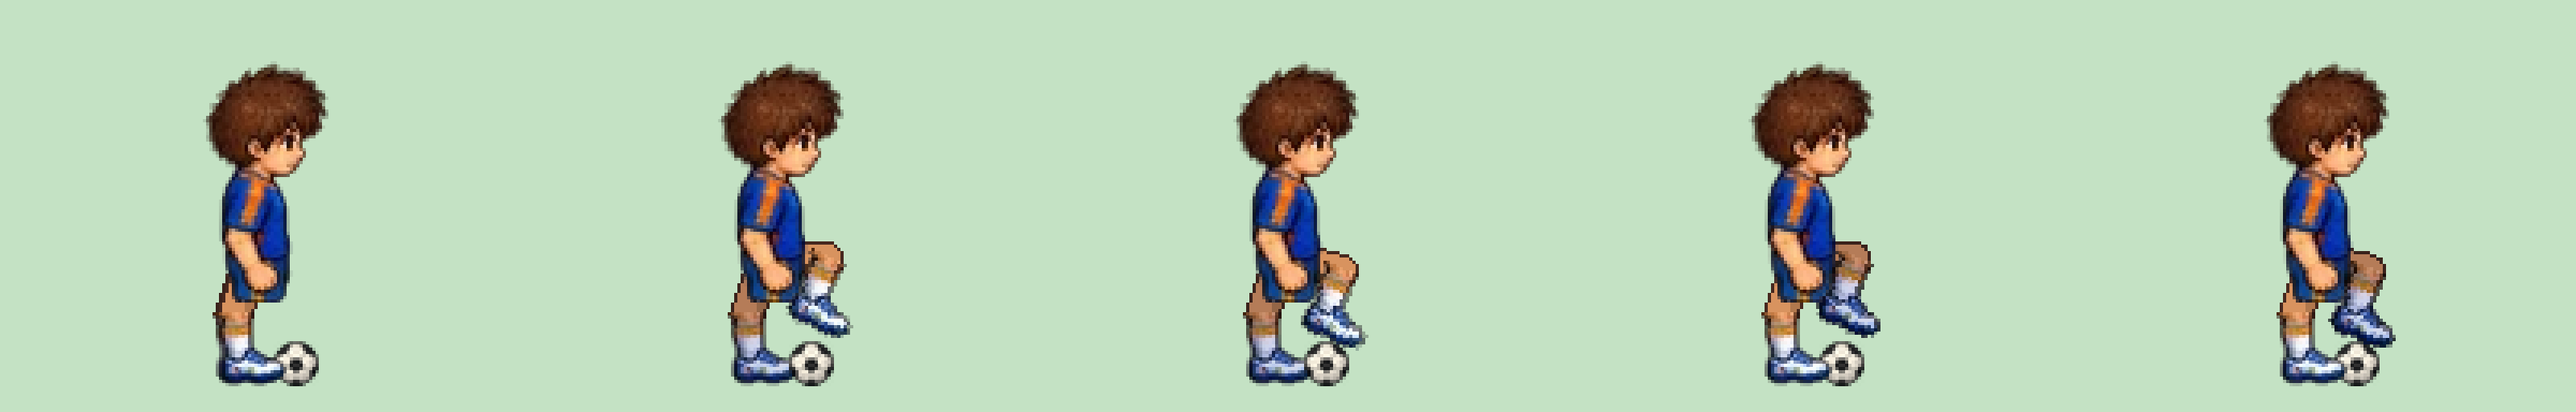
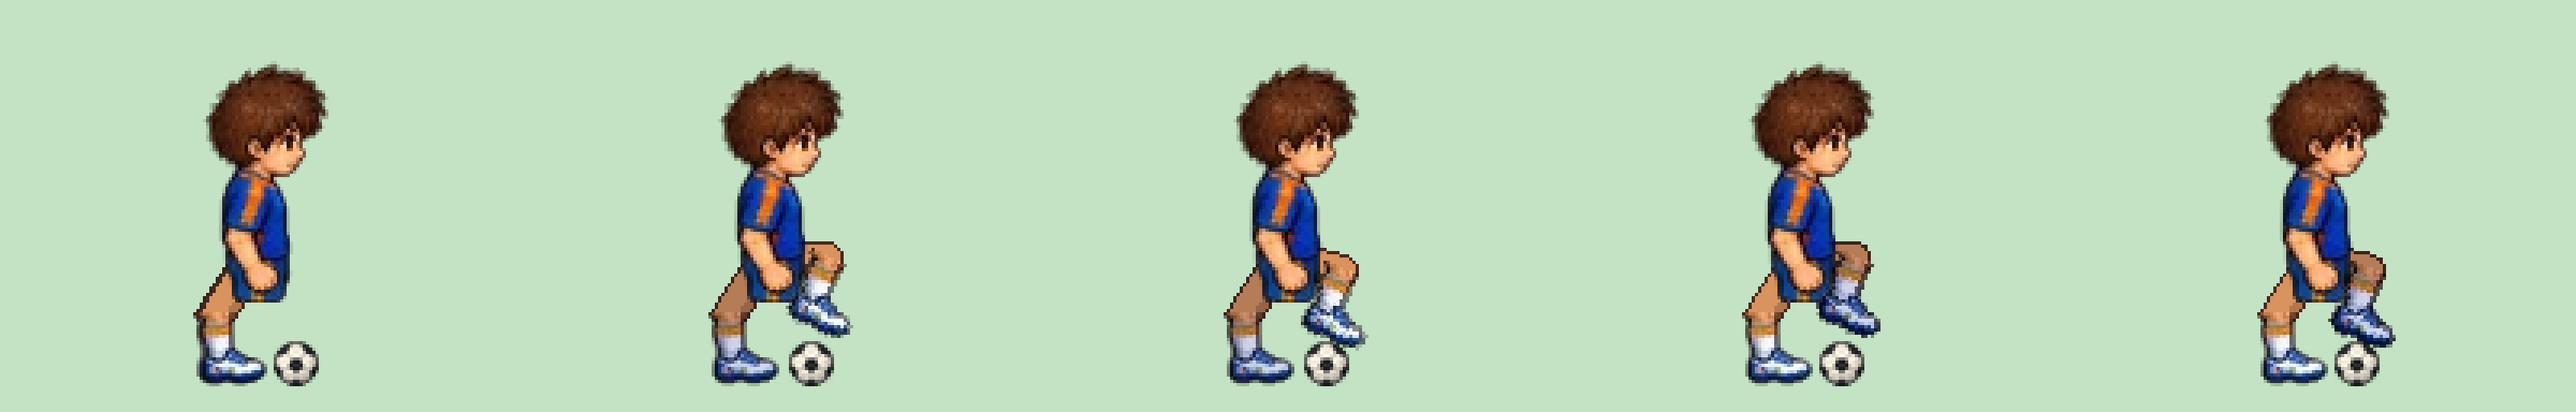
Sole taps side art: planted boots step back to clear the ball by 2 px; planted-boot pixel check in report and unit test

diff --git a/src/render/art/sideContactFrames.ts b/src/render/art/sideContactFrames.ts
@@ -1,19 +1,19 @@
 // Generated by scripts/art/build-side-contact.py. Do not edit by hand.
 /** Side-view contact poses: cell px, ground at anchor.y. Right = near leg (facing east), left = far leg; never mirrored. */
 export const SIDE_CONTACT = Object.freeze({
-  boy: { cell: { w: 160, h: 128 }, anchor: { x: 80, y: 120 }, bodyHeight: 100, visible: { x: 63, y: 19, w: 42, h: 101 }, ball: { x: 91.73, y: 113.00, r: 7.0 }, poses: {
-    'stand': {"working": null, "support": null, "surface": "none", "contact": null, "boots": {"right": {"heel": [68.0, 120.0], "toe": [89.0, 120.0], "bof": [81.02, 120.0]}, "left": {"heel": [67.0, 120.0], "toe": [88.0, 120.0], "bof": [80.02, 120.0]}}},
-    'right-lift': {"working": "right", "support": "left", "surface": "none", "contact": null, "boots": {"right": {"heel": [82.87, 98.36], "toe": [101.81, 107.44], "bof": [94.61, 103.99]}, "left": {"heel": [67.0, 120.0], "toe": [88.0, 120.0], "bof": [80.02, 120.0]}}},
-    'right-tap': {"working": "right", "support": "left", "surface": "sole", "contact": [95.24, 106.94], "boots": {"right": {"heel": [82.51, 101.96], "toe": [101.54, 110.84], "bof": [94.31, 107.47]}, "left": {"heel": [67.0, 120.0], "toe": [88.0, 120.0], "bof": [80.02, 120.0]}}},
-    'left-lift': {"working": "left", "support": "right", "surface": "none", "contact": null, "boots": {"right": {"heel": [68.0, 120.0], "toe": [89.0, 120.0], "bof": [81.02, 120.0]}, "left": {"heel": [82.48, 98.67], "toe": [101.71, 107.1], "bof": [94.4, 103.89]}}},
-    'left-tap': {"working": "left", "support": "right", "surface": "sole", "contact": [94.47, 106.56], "boots": {"right": {"heel": [68.0, 120.0], "toe": [89.0, 120.0], "bof": [81.02, 120.0]}, "left": {"heel": [82.14, 102.32], "toe": [101.44, 110.58], "bof": [94.11, 107.44]}}},
+  boy: { cell: { w: 160, h: 128 }, anchor: { x: 80, y: 120 }, bodyHeight: 100, visible: { x: 60, y: 19, w: 45, h: 101 }, ball: { x: 91.73, y: 113.00, r: 7.0 }, poses: {
+    'stand': {"working": null, "support": null, "surface": "none", "contact": null, "boots": {"right": {"heel": [62.5, 120.0], "toe": [83.5, 120.0], "bof": [75.52, 120.0]}, "left": {"heel": [61.5, 120.0], "toe": [82.5, 120.0], "bof": [74.52, 120.0]}}},
+    'right-lift': {"working": "right", "support": "left", "surface": "none", "contact": null, "boots": {"right": {"heel": [82.87, 98.36], "toe": [101.81, 107.44], "bof": [94.61, 103.99]}, "left": {"heel": [61.5, 120.0], "toe": [82.5, 120.0], "bof": [74.52, 120.0]}}},
+    'right-tap': {"working": "right", "support": "left", "surface": "sole", "contact": [95.24, 106.94], "boots": {"right": {"heel": [82.51, 101.96], "toe": [101.54, 110.84], "bof": [94.31, 107.47]}, "left": {"heel": [61.5, 120.0], "toe": [82.5, 120.0], "bof": [74.52, 120.0]}}},
+    'left-lift': {"working": "left", "support": "right", "surface": "none", "contact": null, "boots": {"right": {"heel": [62.5, 120.0], "toe": [83.5, 120.0], "bof": [75.52, 120.0]}, "left": {"heel": [82.48, 98.67], "toe": [101.71, 107.1], "bof": [94.4, 103.89]}}},
+    'left-tap': {"working": "left", "support": "right", "surface": "sole", "contact": [94.47, 106.56], "boots": {"right": {"heel": [62.5, 120.0], "toe": [83.5, 120.0], "bof": [75.52, 120.0]}, "left": {"heel": [82.14, 102.32], "toe": [101.44, 110.58], "bof": [94.11, 107.44]}}},
   } },
   girl: { cell: { w: 160, h: 128 }, anchor: { x: 80, y: 120 }, bodyHeight: 100, visible: { x: 53, y: 22, w: 49, h: 98 }, ball: { x: 89.39, y: 113.00, r: 7.0 }, poses: {
-    'stand': {"working": null, "support": null, "surface": "none", "contact": null, "boots": {"right": {"heel": [70.76, 120.0], "toe": [89.76, 120.0], "bof": [82.54, 120.0]}, "left": {"heel": [69.76, 120.0], "toe": [88.76, 120.0], "bof": [81.54, 120.0]}}},
-    'right-lift': {"working": "right", "support": "left", "surface": "none", "contact": null, "boots": {"right": {"heel": [81.65, 98.69], "toe": [98.88, 106.69], "bof": [92.33, 103.65]}, "left": {"heel": [69.76, 120.0], "toe": [88.76, 120.0], "bof": [81.54, 120.0]}}},
-    'right-tap': {"working": "right", "support": "left", "surface": "sole", "contact": [93.13, 107.08], "boots": {"right": {"heel": [81.67, 101.68], "toe": [98.89, 109.71], "bof": [92.35, 106.66]}, "left": {"heel": [69.76, 120.0], "toe": [88.76, 120.0], "bof": [81.54, 120.0]}}},
-    'left-lift': {"working": "left", "support": "right", "surface": "none", "contact": null, "boots": {"right": {"heel": [70.76, 120.0], "toe": [89.76, 120.0], "bof": [82.54, 120.0]}, "left": {"heel": [81.38, 98.74], "toe": [98.86, 106.18], "bof": [92.22, 103.35]}}},
-    'left-tap': {"working": "left", "support": "right", "surface": "sole", "contact": [93.13, 107.08], "boots": {"right": {"heel": [70.76, 120.0], "toe": [89.76, 120.0], "bof": [82.54, 120.0]}, "left": {"heel": [81.49, 101.53], "toe": [98.95, 109.03], "bof": [92.32, 106.18]}}},
+    'stand': {"working": null, "support": null, "surface": "none", "contact": null, "boots": {"right": {"heel": [63.26, 120.0], "toe": [82.26, 120.0], "bof": [75.04, 120.0]}, "left": {"heel": [62.26, 120.0], "toe": [81.26, 120.0], "bof": [74.04, 120.0]}}},
+    'right-lift': {"working": "right", "support": "left", "surface": "none", "contact": null, "boots": {"right": {"heel": [81.65, 98.69], "toe": [98.88, 106.69], "bof": [92.33, 103.65]}, "left": {"heel": [62.26, 120.0], "toe": [81.26, 120.0], "bof": [74.04, 120.0]}}},
+    'right-tap': {"working": "right", "support": "left", "surface": "sole", "contact": [93.13, 107.08], "boots": {"right": {"heel": [81.67, 101.68], "toe": [98.89, 109.71], "bof": [92.35, 106.66]}, "left": {"heel": [62.26, 120.0], "toe": [81.26, 120.0], "bof": [74.04, 120.0]}}},
+    'left-lift': {"working": "left", "support": "right", "surface": "none", "contact": null, "boots": {"right": {"heel": [63.26, 120.0], "toe": [82.26, 120.0], "bof": [75.04, 120.0]}, "left": {"heel": [81.38, 98.74], "toe": [98.86, 106.18], "bof": [92.22, 103.35]}}},
+    'left-tap': {"working": "left", "support": "right", "surface": "sole", "contact": [93.13, 107.08], "boots": {"right": {"heel": [63.26, 120.0], "toe": [82.26, 120.0], "bof": [75.04, 120.0]}, "left": {"heel": [81.49, 101.53], "toe": [98.95, 109.03], "bof": [92.32, 106.18]}}},
   } },
 });
 export type SideSex = keyof typeof SIDE_CONTACT;

diff --git a/tests/side-contact.test.ts b/tests/side-contact.test.ts
@@ -4,7 +4,7 @@ import { SIDE_CONTACT } from '../src/render/art/sideContactFrames';
 import { sideFrame, sideLength, sideLessonFor, sideStarts } from '../src/game/career/sideContact';
 import { activityById } from '../src/game/career/catalog';
 
-type Pose = { working: string | null; support: string | null; surface: string; pixelCheck: { nearestBootPixel: number; bootPixelsInsideBall: number } | null; rotation: Record<string, number> };
+type Pose = { working: string | null; support: string | null; surface: string; pixelCheck: { nearestBootPixel: number; bootPixelsInsideBall: number } | null; rotation: Record<string, number>; plantedBootNearestPixel: Record<string, number> };
 const R = 7;
 
 describe('Sole taps side-view contact (D69)', () => {
@@ -22,6 +22,13 @@ describe('Sole taps side-view contact (D69)', () => {
           expect(p.pixelCheck.nearestBootPixel, id).toBeGreaterThanOrEqual(R);
           expect(p.pixelCheck.nearestBootPixel, id).toBeLessThanOrEqual(R + 1);
         } else expect(p.pixelCheck.nearestBootPixel, id).toBeGreaterThanOrEqual(R + 2);
+      }
+    });
+    it(`${sex}: a planted boot never touches or overlaps the ball`, () => {
+      for (const [id, p] of Object.entries(poses)) {
+        const feet = Object.entries(p.plantedBootNearestPixel);
+        expect(feet.length, id).toBe(p.working ? 1 : 2);
+        for (const [foot, d] of feet) expect(d, `${id} ${foot}`).toBeGreaterThanOrEqual(R + 2);
       }
     });
     it(`${sex}: each foot has its own pose (left is the far leg, not a mirror)`, () => {

diff --git a/scripts/art/build-side-contact.py b/scripts/art/build-side-contact.py
@@ -204,6 +204,10 @@ def build(sex):
     # Support foot: planted beside and just behind the ball (its toe may pass behind/in front of the ball's back edge,
     # which the two layers draw at the right depth), knee 6 px behind the hip so the thigh stays under the shorts.
     sup_knee_x = near_hip[0] - 6.0
+    # A planted boot never touches the ball: step the support knee back until its boot clears the ball edge by 2 px
+    # (the same clearance the non-contact working foot keeps), so "no contact" is true for the standing foot too.
+    while nearest(place(part, lm, 0.0, planted(lm, sup_knee_x))[0], ball) < BALL_R + 2.0:
+        sup_knee_x -= 0.5
 
     def leg(hip, mode):
         if mode in ('stand', 'support'):
@@ -275,6 +279,18 @@ def check(meta, layers, ball):
     return res
 
 
+def support_check(meta, layers, ball):
+    """Pixel check for every planted (non-working) boot: distance from the ball centre to its nearest opaque pixel."""
+    res = {}
+    for pid, m in meta.items():
+        res[pid] = {}
+        for foot, i in (('right', 2), ('left', 3)):
+            if foot == m['working']:
+                continue
+            res[pid][foot] = round(nearest(layers[pid][i], ball), 2)
+    return res
+
+
 def main():
     os.makedirs(OUT, exist_ok=True)
     os.makedirs(DOC, exist_ok=True)
@@ -295,7 +311,8 @@ def main():
         sheet.save(os.path.join(OUT, f'{sex}-side.webp'), lossless=True, quality=100, method=6)
         json.dump({'frames': frames, 'meta': {'image': f'{sex}-side.webp', 'size': {'w': sheet.width, 'h': H}, 'scale': '1', 'source': f'sprites-v2/{sex}-training (idle-e torso, {SEX[sex]["leg"][0]} lower leg)'}}, open(os.path.join(OUT, f'{sex}-side.json'), 'w'), indent=1)
         chk = check(meta, layers, ball)
-        report[sex] = {'ball': [round(v, 2) for v in ball], 'ballRadius': BALL_R, 'poses': {p: {**meta[p], 'pixelCheck': chk[p]} for p in meta}}
+        sup = support_check(meta, layers, ball)
+        report[sex] = {'ball': [round(v, 2) for v in ball], 'ballRadius': BALL_R, 'poses': {p: {**meta[p], 'pixelCheck': chk[p], 'plantedBootNearestPixel': sup[p]} for p in meta}}
         # Proof sheet: each pose composed with the approved ball, x4.
         proof = Image.new('RGBA', (W * 4 * len(layers), H * 4), (196, 226, 196, 255))
         for i, (pid, (back, front, _, _)) in enumerate(layers.items()):
